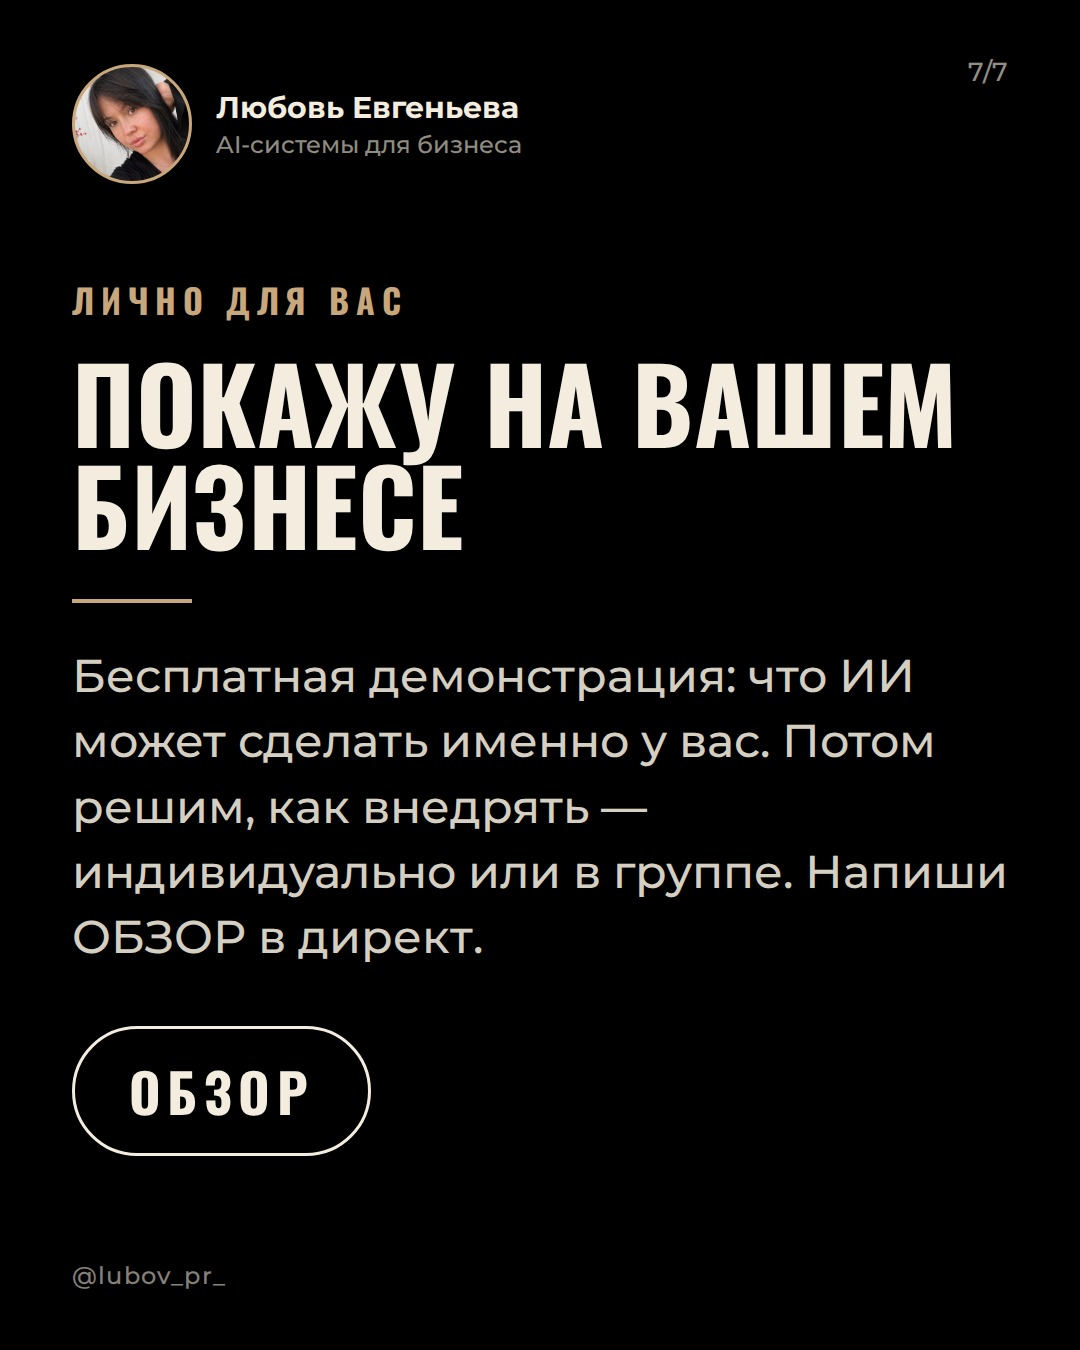
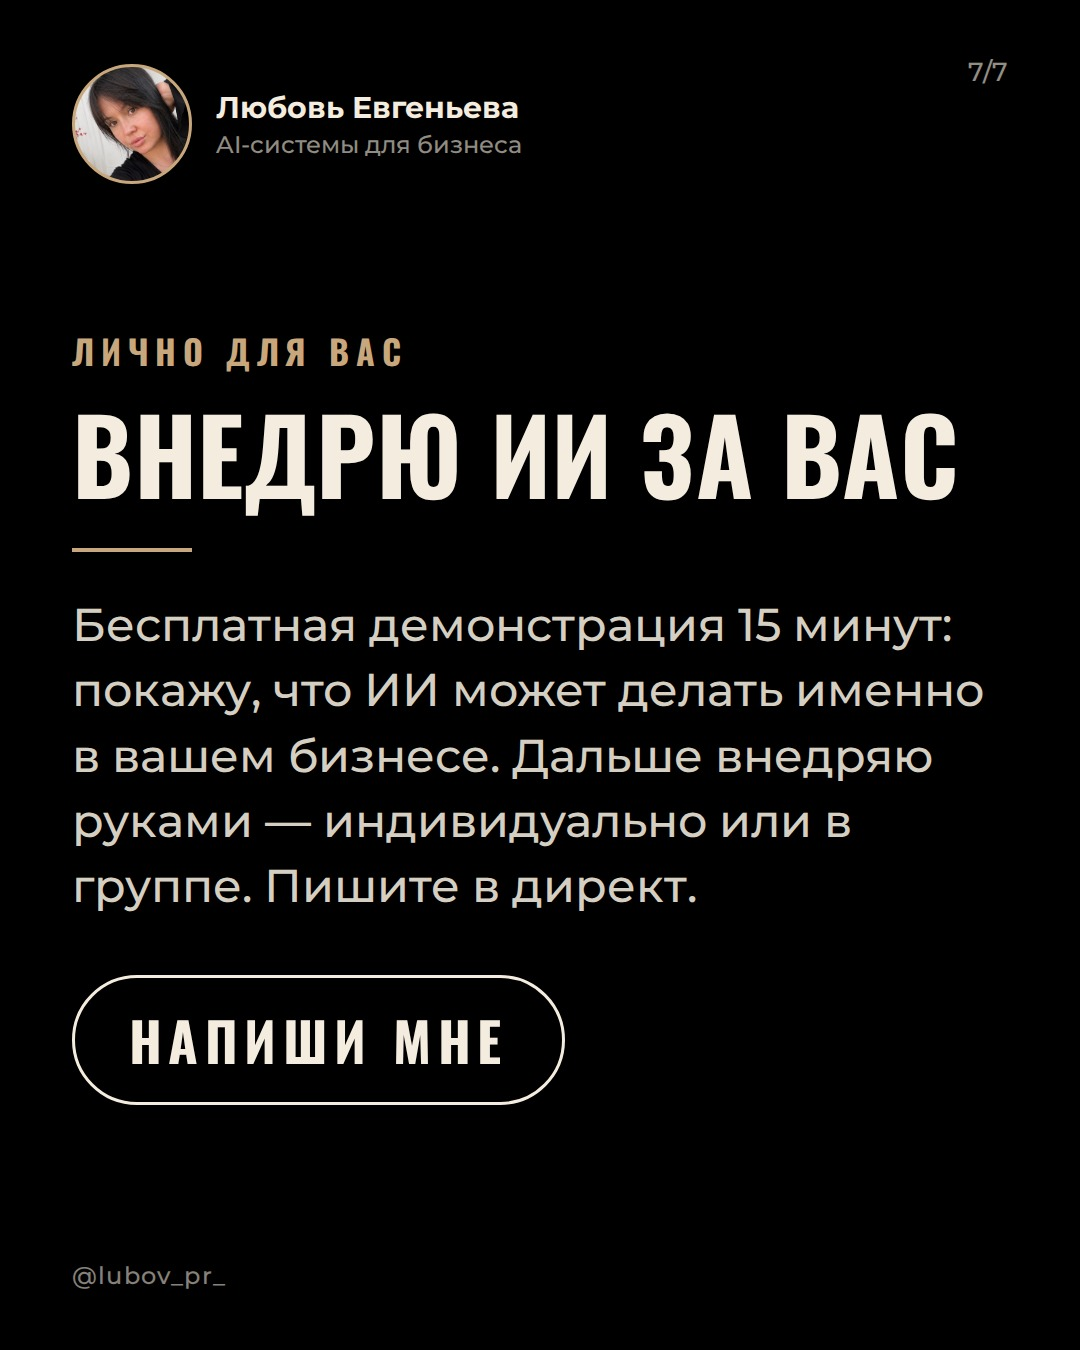
Карусель v2: без кодового слова, «пишите в директ»
Claude-Session: https://claude.ai/code/session_019EGb2JtTjqiNVK3WnH1BTw

diff --git a/content/carousels_2026-09-29.py b/content/carousels_2026-09-29.py
@@ -1,5 +1,5 @@
 # 29.09 · день 1 · разогрев
-CAROUSELS = [{'date': '2026-09-29', 'slug': 'god-s-ii-v2', 'cta': 'ОБЗОР', 'photo': ('lubov_01.jpg', '20%'),
+CAROUSELS = [{'date': '2026-09-29', 'slug': 'god-s-ii-v2', 'cta': 'НАПИШИ МНЕ', 'photo': ('lubov_01.jpg', '20%'),
   'slides': [
     ('15 лет в маркетинге', 'Что ИИ изменил за год', 'больше, чем все инструменты за 10 лет до этого'),
     ('с чего начинала', 'Руки не успевали', 'Свой бизнес с 2011 года, потом студия YMISHE и маркетинг чужих компаний. Везде одно и то же: задач больше, чем часов в сутках.'),
@@ -7,5 +7,5 @@ CAROUSELS = [{'date': '2026-09-29', 'slug': 'god-s-ii-v2', 'cta': 'ОБЗОР', 
     ('сейчас', 'Одно приложение', 'Claude знает мой бизнес, моих клиентов и мой голос. Не пять нейросетей по очереди, а одна, которую я один раз научила.'),
     ('как', 'Три шага по порядку', 'Оцифровать: рассказать ИИ про бизнес. Автоматизировать: отдать рутину. Улучшать: раз в неделю дописывать правила.'),
     ('вчера', '12 рилсов вышли сами', 'С 19:30 до часу ночи, каждые полчаса. Я их не выкладывала руками — робот всё сделал сам. Контент больше не съедает мои вечера.'),
-    ('лично для вас', 'Покажу на вашем бизнесе', 'Бесплатная демонстрация: что ИИ может сделать именно у вас. Потом решим, как внедрять — индивидуально или в группе. Напиши ОБЗОР в директ.'),
+    ('лично для вас', 'Внедрю ИИ за вас', 'Бесплатная демонстрация 15 минут: покажу, что ИИ может делать именно в вашем бизнесе. Дальше внедряю руками — индивидуально или в группе. Пишите в директ.'),
   ]}]
